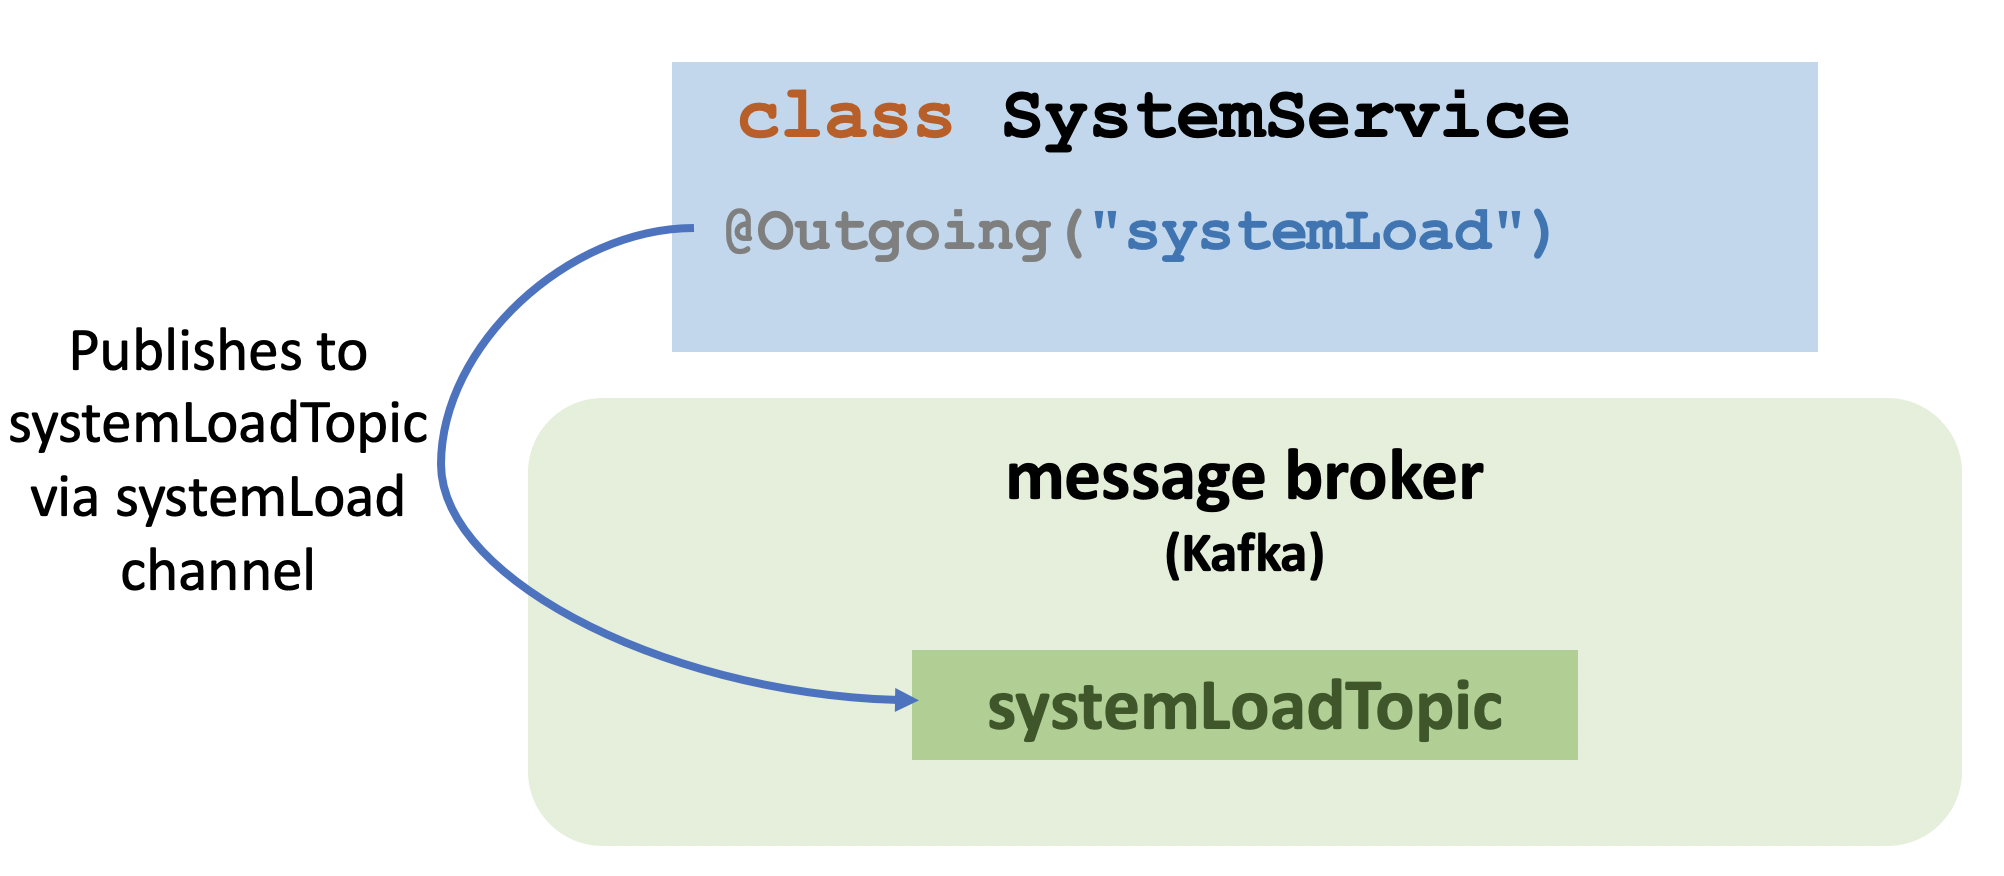
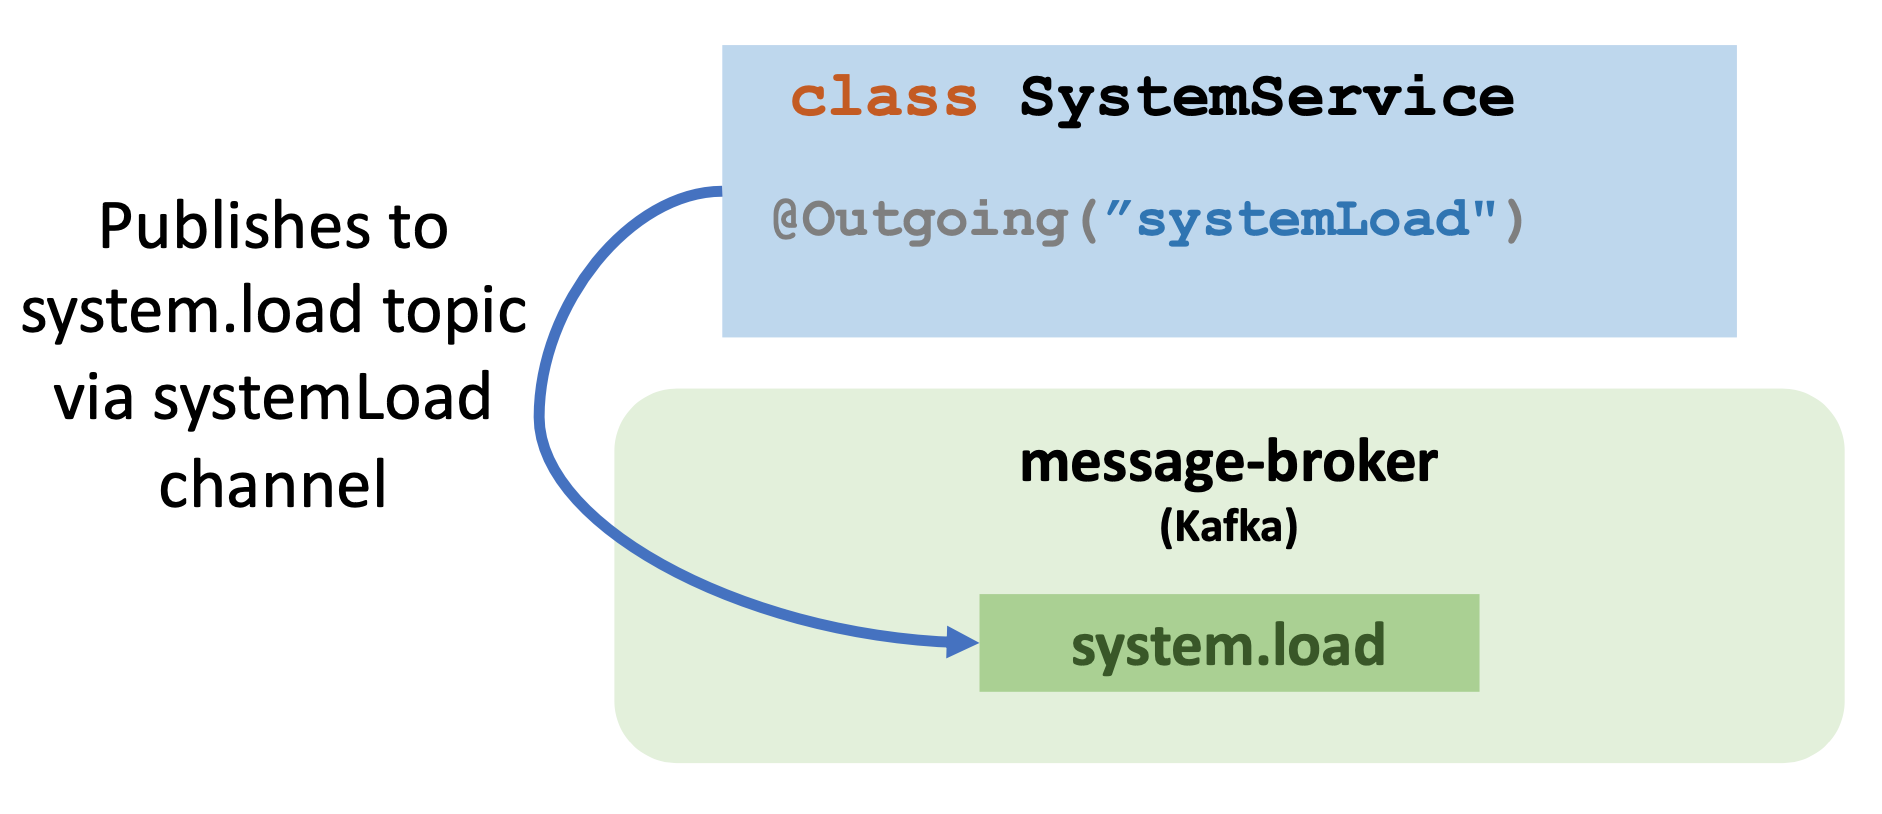
Rename kafka topic (#102)
* renamed systemLoadTopic to system.load

* updated deps

* downgraded kafka-client version

* updated LMP to 3.3.1

* Update README.adoc

* Update pom.xml

* Update InventoryServiceIT.java

* Update SystemServiceIT.java

* Update InventoryServiceIT.java

* Update pom.xml

* Update pom.xml

* Update SystemServiceIT.java

* fix for PR checker

* PR checker fix

* adjusted topic names in diagrams

* fixed issue with image

Changed region(s): [[0.0, 0.0307, 0.9862, 0.9828], [0.4931, 0.5221, 0.7705, 0.6757], [0.0308, 0.2457, 0.2465, 0.3071]]

diff --git a/finish/inventory/src/test/java/it/io/openliberty/guides/inventory/InventoryServiceIT.java b/finish/inventory/src/test/java/it/io/openliberty/guides/inventory/InventoryServiceIT.java
@@ -1,6 +1,6 @@
 // tag::copyright[]
 /*******************************************************************************
- * Copyright (c) 2020 IBM Corporation and others.
+ * Copyright (c) 2020, 2021 IBM Corporation and others.
  * All rights reserved. This program and the accompanying materials
  * are made available under the terms of the Eclipse Public License v1.0
  * which accompanies this distribution, and is available at
@@ -54,11 +54,11 @@ public class InventoryServiceIT {
     @Test
     public void testCpuUsage() throws InterruptedException {
         SystemLoad sl = new SystemLoad("localhost", 1.1);
-        producer.send(new ProducerRecord<String, SystemLoad>("systemLoadTopic", sl));
+        producer.send(new ProducerRecord<String, SystemLoad>("system.load", sl));
         Thread.sleep(5000);
         Response response = inventoryResource.getSystems();
         List<Properties> systems =
-                response.readEntity(new GenericType<List<Properties>>() {});
+                response.readEntity(new GenericType<List<Properties>>() { });
         Assertions.assertEquals(200, response.getStatus(),
                 "Response should be 200");
         Assertions.assertEquals(systems.size(), 1);

diff --git a/start/inventory/src/test/java/it/io/openliberty/guides/inventory/InventoryServiceIT.java b/start/inventory/src/test/java/it/io/openliberty/guides/inventory/InventoryServiceIT.java
@@ -1,6 +1,6 @@
 // tag::copyright[]
 /*******************************************************************************
- * Copyright (c) 2020 IBM Corporation and others.
+ * Copyright (c) 2020, 2021 IBM Corporation and others.
  * All rights reserved. This program and the accompanying materials
  * are made available under the terms of the Eclipse Public License v1.0
  * which accompanies this distribution, and is available at
@@ -54,11 +54,11 @@ public class InventoryServiceIT {
     @Test
     public void testCpuUsage() throws InterruptedException {
         SystemLoad sl = new SystemLoad("localhost", 1.1);
-        producer.send(new ProducerRecord<String, SystemLoad>("systemLoadTopic", sl));
+        producer.send(new ProducerRecord<String, SystemLoad>("system.load", sl));
         Thread.sleep(5000);
         Response response = inventoryResource.getSystems();
         List<Properties> systems =
-                response.readEntity(new GenericType<List<Properties>>() {});
+                response.readEntity(new GenericType<List<Properties>>() { });
         Assertions.assertEquals(200, response.getStatus(),
                 "Response should be 200");
         Assertions.assertEquals(systems.size(), 1);

diff --git a/finish/system/src/test/java/it/io/openliberty/guides/system/SystemServiceIT.java b/finish/system/src/test/java/it/io/openliberty/guides/system/SystemServiceIT.java
@@ -1,6 +1,6 @@
 // tag::copyright[]
 /*******************************************************************************
- * Copyright (c) 2020 IBM Corporation and others.
+ * Copyright (c) 2020, 2021 IBM Corporation and others.
  * All rights reserved. This program and the accompanying materials
  * are made available under the terms of the Eclipse Public License v1.0
  * which accompanies this distribution, and is available at
@@ -34,7 +34,7 @@ public class SystemServiceIT {
 
     @KafkaConsumerClient(valueDeserializer = SystemLoadDeserializer.class,
             groupId = "system-load-status",
-            topics = "systemLoadTopic",
+            topics = "system.load",
             properties = ConsumerConfig.AUTO_OFFSET_RESET_CONFIG + "=earliest")
     public static KafkaConsumer<String, SystemLoad> consumer;
 

diff --git a/start/system/src/test/java/it/io/openliberty/guides/system/SystemServiceIT.java b/start/system/src/test/java/it/io/openliberty/guides/system/SystemServiceIT.java
@@ -1,6 +1,6 @@
 // tag::copyright[]
 /*******************************************************************************
- * Copyright (c) 2020 IBM Corporation and others.
+ * Copyright (c) 2020, 2021 IBM Corporation and others.
  * All rights reserved. This program and the accompanying materials
  * are made available under the terms of the Eclipse Public License v1.0
  * which accompanies this distribution, and is available at
@@ -34,7 +34,7 @@ public class SystemServiceIT {
 
     @KafkaConsumerClient(valueDeserializer = SystemLoadDeserializer.class,
             groupId = "system-load-status",
-            topics = "systemLoadTopic",
+            topics = "system.load",
             properties = ConsumerConfig.AUTO_OFFSET_RESET_CONFIG + "=earliest")
     public static KafkaConsumer<String, SystemLoad> consumer;
 
